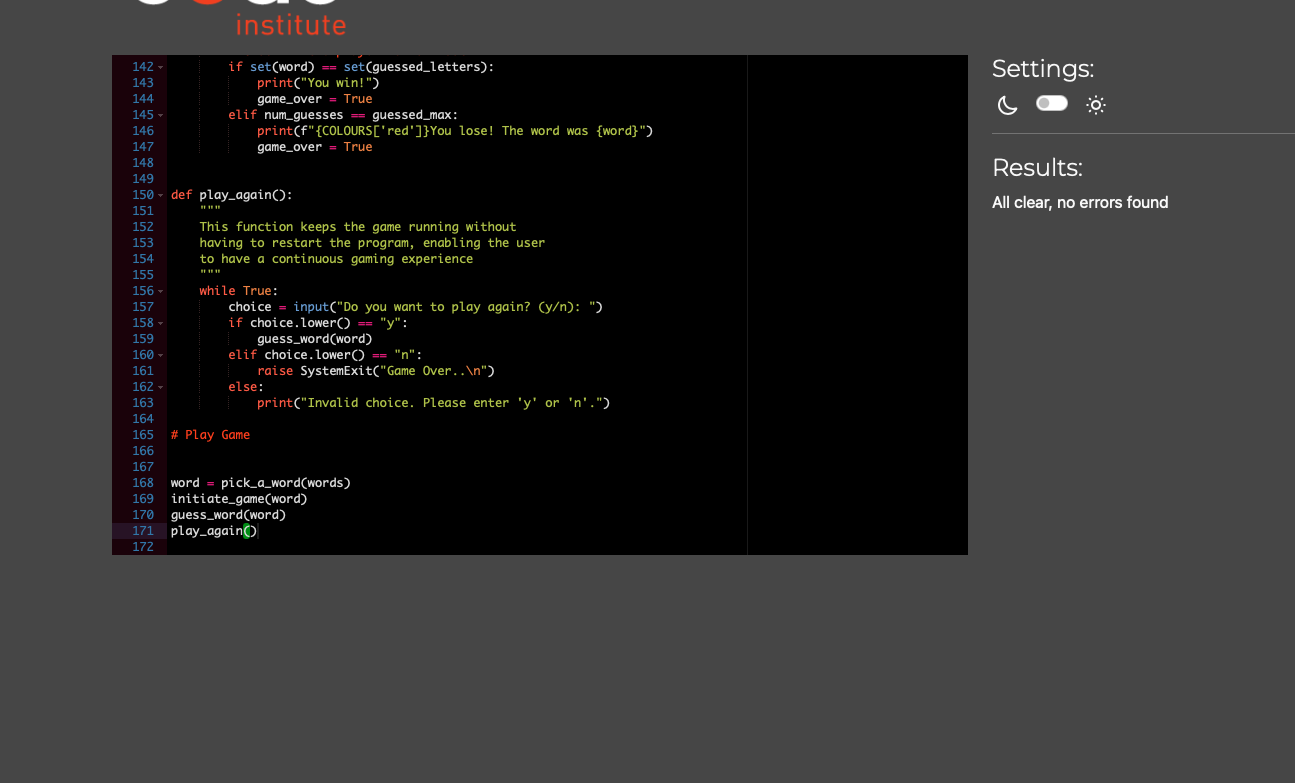
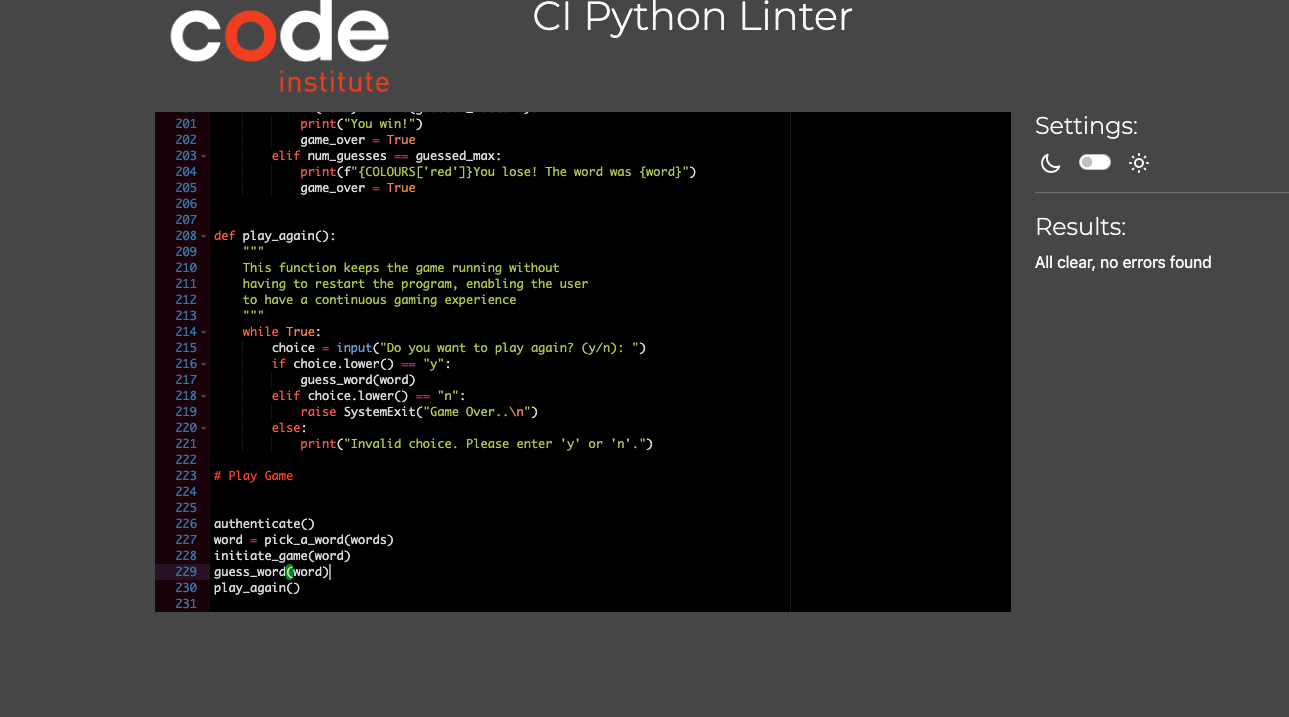
add requirements google api, gspread, included for deployemnt

Changed region(s): [[0.0621, 0.0, 0.931, 0.8591]]

diff --git a/run.py b/run.py
@@ -1,3 +1,6 @@
+"""
+This is a module for generating random numbers
+"""
 import random
 import gspread
 from google.oauth2.service_account import Credentials
@@ -43,7 +46,6 @@ def authenticate():
 
         except gspread.exceptions.CellNotFound:
             print("Invalid username or password. Please try again")
-                
         attempts += 1
 
     print("Maximum authentication attempts reached. Exiting")
